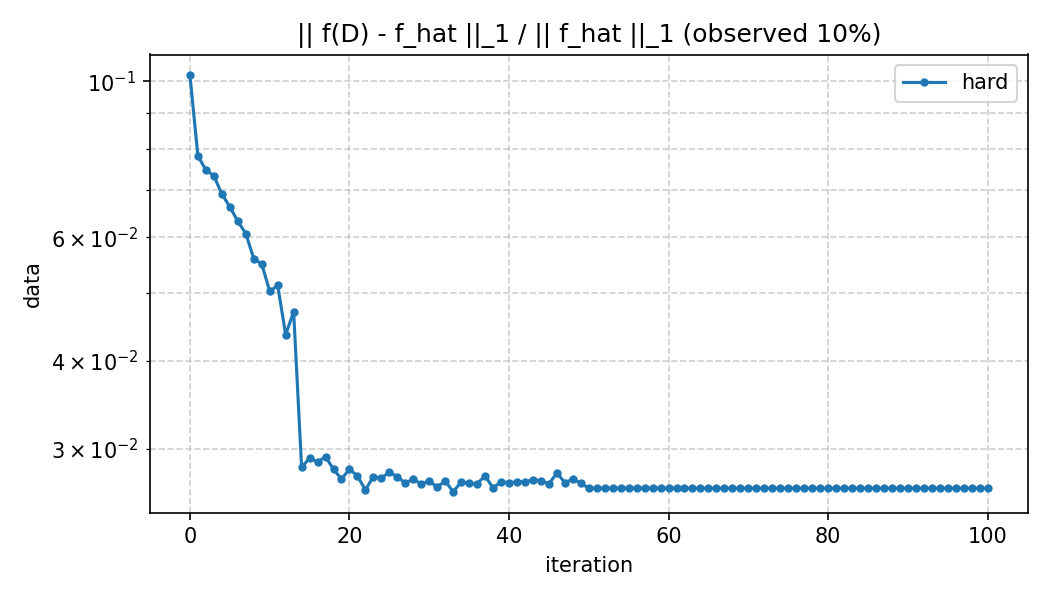
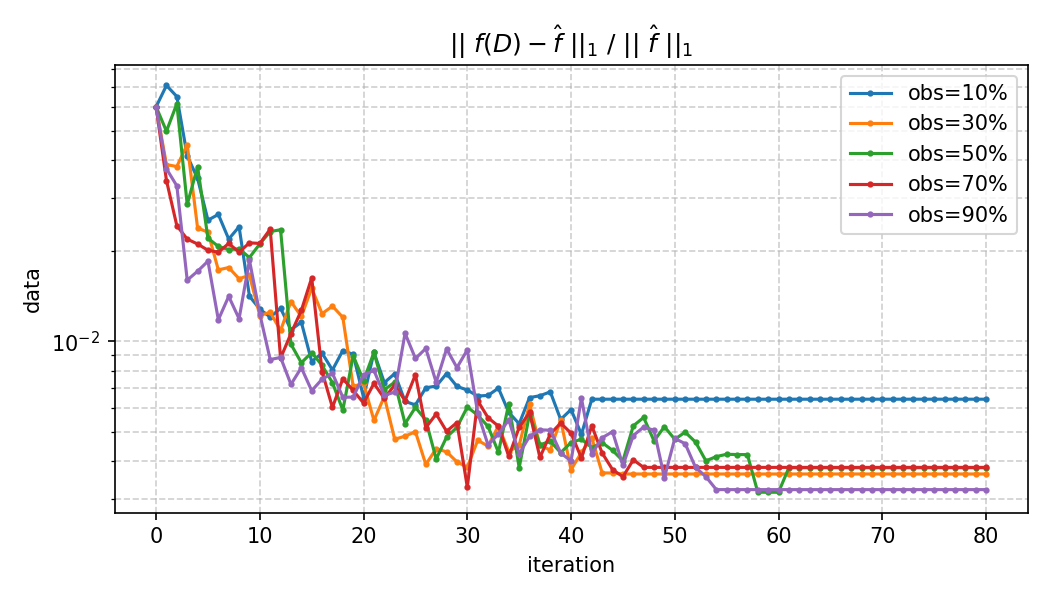
Refactor for L1 regularization and KL separation
Replaces KL-regularized mirror descent with L1-regularized version in main_l1.py and related files. Renames mirror_descent_completion.py to mirror_descent_completion_kl.py and updates imports accordingly. Updates experiment_math.md to reflect the use of L1 regularization and real network data. Refactors mask generation and plotting in main_l1.py for experiments with varying observed fractions. Minor changes to plotting and initialization for reproducibility and clarity.

diff --git a/main_l1.py b/main_l1.py
@@ -8,7 +8,7 @@ from typing import Dict
 import numpy as np
 import pandas as pd
 
-from mirror_descent_completion import project_to_marginals_masked
+from mirror_descent_completion_kl import project_to_marginals_masked
 from mirror_descent_completion_l1 import mirror_descent_completion_l1
 from optimize_results_l1_dto import MirrorDescentL1Result
 from subfunctions import build_dense_graph, make_progress_printer, make_switch_logger, plot_history
@@ -73,15 +73,16 @@ def run_completion_l1(
 
     flow_ref = fw_beckmann_flow(csr, edge_cost, D_true, **fw_hard_kwargs)
 
-    # rng_mask = np.random.default_rng(int(mask_seed))
-    # mask = (rng_mask.random(flow_ref.shape) < float(observed_fraction)).astype(np.float64)
-    # if mask.sum() == 0:
-    #     mask[0] = 1.0
 
-    # можно тут играться с тем куда ставить датчики
-    indexes = np.argsort(flow_ref)
-    mask = np.zeros(flow_ref.shape)
-    mask[indexes[-10:]] = 1
+    rng_mask = np.random.default_rng(42)
+    mask = (rng_mask.random(flow_ref.shape) < float(observed_fraction)).astype(np.float64)
+    if mask.sum() == 0:
+        mask[0] = 1.0
+
+    # # можно тут играться с тем куда ставить датчики
+    # indexes = np.argsort(flow_ref)
+    # mask = np.zeros(flow_ref.shape)
+    # mask[indexes[-10:]] = 1
 
     f_hat = flow_ref.copy()
     if float(flow_noise_level) > 0.0:
@@ -170,7 +171,7 @@ def main():
 
     nx.draw(graph.to_networkx())
     plt.gcf().suptitle("Икша")
-    plt.show()
+    # plt.show()
 
     edge_cost = BRP(
         cap=network["capacity"].to_numpy(),
@@ -179,43 +180,47 @@ def main():
         beta=4,
     )
 
-    observed_fraction = 0.1
+    observed_fractions = np.arange(0.1, 1, 0.2)
     modes = ("hard",)
 
-    results = run_completion_l1(
-        D_true,
-        modes,
-        csr=graph,
-        n_iters=100,
-        edge_cost=edge_cost,
-        observed_fraction=float(observed_fraction),
-        reference_noise_level=0.3,
-        reg_lambda=5e2,
-    )
-
-    # np.savetxt("matrix_l1.csv", results["hard"].D_final, delimiter=",")
+    np.random.seed(42)
+    results_by_label: Dict[str, MirrorDescentL1Result] = {}
+    for observed_fraction in observed_fractions:
+        results = run_completion_l1(
+            D_true,
+            modes,
+            csr=graph,
+            n_iters=80,
+            edge_cost=edge_cost,
+            observed_fraction=float(observed_fraction),
+            reference_noise_level=0.0,
+            reg_lambda=5e2,
+        )
+        for mode, res in results.items():
+            label = f"obs={observed_fraction:.0%}"
+            results_by_label[label] = res
 
     out_dir = Path("plots_l1")
     out_dir.mkdir(parents=True, exist_ok=True)
 
+    # plot_history(
+    #     {name: res.objective_history for name, res in results_by_label.items()},
+    #     out_dir / "objective_curves.png",
+    #     r"$|| \  f(D) - \hat{f}  \ ||_2^2 + \lambda\cdot|| \ D - D_{ref}  \ ||_1$",
+    #     "objective",
+    #     semilogy=True,
+    # )
     plot_history(
-        {name: res.objective_history for name, res in results.items()},
-        out_dir / "objective_curves.png",
-        f"Objective = data + λ·||D - D_true||_1 (observed {observed_fraction:.0%} flows)",
-        "objective",
-        semilogy=True,
-    )
-    plot_history(
-        {name: res.data_history for name, res in results.items()},
+        {name: res.data_history for name, res in results_by_label.items()},
         out_dir / "relative_flow_error.png",
-        f"|| f(D) - f_hat ||_1 / || f_hat ||_1 (observed {observed_fraction:.0%})",
+        r"$|| \  f(D) - \hat{f} \  ||_1  \ /  \ || \  \hat{f} \ ||_1$",
         "data",
         semilogy=True,
     )
     plot_history(
-        {name: res.rel_l1_ref_history for name, res in results.items()},
+        {name: res.rel_l1_ref_history for name, res in results_by_label.items()},
         out_dir / "rel_matrix_error.png",
-        f"||D_k - D_ref||_1 / ||D_ref||_1 (observed {observed_fraction:.0%})",
+        r"$|| \ D_k - D_{ref}\ ||_1 \  / \  || \ D_{ref} \ ||_1$",
         "relative L1 error",
         semilogy=True,
     )

diff --git a/mirror_descent_completion_l1.py b/mirror_descent_completion_l1.py
@@ -4,7 +4,7 @@ from typing import Callable, Dict, Literal, Optional, Tuple
 
 import numpy as np
 
-from mirror_descent_completion import project_to_marginals_masked
+from mirror_descent_completion_kl import project_to_marginals_masked
 from optimize_results_l1_dto import MirrorDescentL1Result
 from src.od_matrix_completion.core.models.manyalli_written_beckmann import (
     BRP,
@@ -74,6 +74,7 @@ def mirror_descent_completion_l1(
     В качестве зеркального шага используется энтропийная геометрия (multiplicative update),
     затем проекция на фиксированные маргиналии (из D_reference) с сохранением нулевой диагонали.
     """
+    np.random.seed(42)
     if mode not in {"hard", "soft_grad", "auto_soft"}:
         raise ValueError(f"Unknown mode={mode}")
 
@@ -115,10 +116,11 @@ def mirror_descent_completion_l1(
 
     if D_init is None:
         u, Sigma, v = np.linalg.svd(D_reference)
-        Sigma[2:-1] = Sigma[2:-1] * 2
-        Sigma[-1]=0
-        # print(Sigma)
-        D_est = project_to_marginals_masked(u @ np.diag(Sigma) @ v, L_ref, W_ref, allowed)
+        # Sigma[1:15]=0
+        # D_est = project_to_marginals_masked(u @ np.diag(Sigma) @ v, L_ref, W_ref, allowed)
+        D_est = D_reference * (1 + 70*np.random.random(D_reference.shape))
+        D_est = project_to_marginals_masked(D_est, L_ref, W_ref, allowed)
+
         print("D_est - D_reference = ", np.linalg.norm(D_est - D_reference, ord=1) / np.linalg.norm(D_reference, ord=1))
     else:
         D_est = np.asarray(D_init, dtype=np.float64)

diff --git a/subfunctions.py b/subfunctions.py
@@ -5,7 +5,7 @@ from typing import Dict
 
 import numpy as np
 
-from mirror_descent_completion import mirror_descent_completion
+from mirror_descent_completion_kl import mirror_descent_completion
 from optimize_results_dto import MirrorDescentResult
 from src.od_matrix_completion.core.models.manyalli_written_beckmann import (
     BRP,
@@ -150,9 +150,9 @@ def plot_history(series: Dict[str, list[float]], path: Path, title: str, ylabel:
         y = np.asarray(values, dtype=np.float64)
         x = np.arange(y.size)
         if semilogy:
-            plt.semilogy(x, y, marker="o", ms=3, label=label)
+            plt.semilogy(x, y, marker="o", ms=2, label=label)
         else:
-            plt.plot(x, y, marker="o", ms=3, label=label)
+            plt.plot(x, y, marker="o", ms=2, label=label)
 
     plt.xlabel("iteration")
     plt.ylabel(ylabel)

diff --git a/global_opt_completion.py b/global_opt_completion.py
@@ -7,7 +7,7 @@ from typing import Optional
 import numpy as np
 from scipy.optimize import differential_evolution
 
-from mirror_descent_completion import kl_value_and_grad, project_to_marginals_masked
+from mirror_descent_completion_kl import kl_value_and_grad, project_to_marginals_masked
 from subfunctions import build_dense_graph, load_od_matrix, plot_history
 from src.od_matrix_completion.core.models.manyalli_written_beckmann import fw_beckmann_flow
 

diff --git a/main.py b/main.py
@@ -6,7 +6,7 @@ import networkx as nx
 import matplotlib.pyplot as plt
 
 from subfunctions import *
-from mirror_descent_completion import mirror_descent_completion, project_to_marginals_masked
+from mirror_descent_completion_kl import mirror_descent_completion, project_to_marginals_masked
 from optimize_results_dto import MirrorDescentResult
 from src.od_matrix_completion.core.models.manyalli_written_beckmann import fw_beckmann_flow
 

diff --git a/experiment_math.md b/experiment_math.md
@@ -1,6 +1,6 @@
 # Математическое описание эксперимента восстановления OD-матрицы по потокам
 
-Ниже описан эксперимент, в котором **генерируются синтетические наблюдения потоков** из заданной OD-матрицы через **модель Бекмана (равновесное назначение)**, а затем по частично наблюдаемым потокам восстанавливается OD-матрица методом **зеркального спуска** (с энтропийной геометрией) с **KL-регуляризацией** и фиксированными маргиналиями.
+Ниже описан эксперимент, в котором по заданной «истинной» OD-матрице строятся равновесные потоки в **модели Бекмана (UE)**, затем часть компонент потока «скрывается» маской наблюдений, и по частично наблюдаемым потокам восстанавливается OD-матрица методом **зеркального спуска** (с энтропийной геометрией) с **L1-регуляризацией** и фиксированными маргиналиями.
 
 ---
 
@@ -27,10 +27,7 @@ $$
 
 ## 2) Граф и функции стоимости на рёбрах (BPR)
 
-Строится ориентированный связный граф $G=(V,E)$ на $|V|=n$ вершинах **без петель**, с числом рёбер
-$$
-|E|=m=4n.
-$$
+Используется реальная сеть SiouxFalls: ориентированный граф $G=(V,E)$ на $|V|=n=24$ вершинах (зоны совпадают с вершинами), с числом рёбер $|E|=m$ из данных сети (в используемом наборе $m=76$).
 
 Каждому ребру $e\in E$ сопоставляется **функция времени проезда** (BPR):
 $$
@@ -42,11 +39,7 @@ $$
 - $t^0_e>0$ — свободное время,
 - $\alpha_e=0.15$, $\beta_e=4$ (в эксперименте одинаковы для всех рёбер).
 
-В синтетическом графе параметры $c_e$ и $t^0_e$ фиксируются детерминированно по индексам концов ребра $e=(u\to v)$:
-$$
-c_e = 1800 + 200\cdot\big((u+v)\bmod 4\big),\qquad
-t^0_e = 1 + 0.1\cdot\big(|v-u|\bmod 5\big).
-$$
+В текущем эксперименте $c_e$ и $t^0_e$ берутся из данных сети: $c_e$ — capacity, $t^0_e$ — free flow time.
 
 Производная (для полноты):
 $$
@@ -126,12 +119,11 @@ $$
 
 ---
 
-## 5) Выбор референса, маргиналий и prior
+## 5) Выбор референса и маргиналий
 
-Помимо «истины» $D_\mathrm{true}$ вводится референсная матрица $D_\mathrm{ref}$, которая играет две роли:
+Помимо «истины» $D_\mathrm{true}$ вводится референсная матрица $D_\mathrm{ref}$, которая фиксирует допустимое множество через маргиналии, и используется в инициализации.
 
-1) по ней фиксируются маргиналии $(L,W)$ в допустимом множестве $\mathcal{D}(L,W)$,  
-2) она же выступает prior-матрицей $D_\mathrm{prior}$ в KL-регуляризаторе.
+1) по ней фиксируются маргиналии $(L,W)$ в допустимом множестве $\mathcal{D}(L,W)$.
 
 Типичная схема:
 
@@ -144,30 +136,24 @@ $$
 
 Затем в задаче восстановления фиксируются
 $$
-L = D_\mathrm{ref}\mathbf 1,\qquad W = D_\mathrm{ref}^\top\mathbf 1,\qquad D_\mathrm{prior}=D_\mathrm{ref}.
+L = D_\mathrm{ref}\mathbf 1,\qquad W = D_\mathrm{ref}^\top\mathbf 1.
 $$
 
 ---
 
 ## 6) Внешняя задача восстановления OD-матрицы (целевая функция)
 
-Ищется $D\in\mathcal{D}(L,W)$, минимизирующая расхождение модельных и наблюдаемых потоков на наблюдаемых рёбрах, плюс KL-регуляризация к априорной матрице $D_\mathrm{prior}$:
+Ищется $D\in\mathcal{D}(L,W)$, минимизирующая расхождение модельных и наблюдаемых потоков на наблюдаемых рёбрах, плюс L1-регуляризация (в текущем бенчмарке — к «истине» $D_\mathrm{true}$):
 $$
 \min_{D\in\mathcal{D}(L,W)}\;
 \underbrace{\frac12\left\|M\odot\big(f(D)-\hat f\big)\right\|_2^2}_{\text{data term}}
 \;+\;
-\lambda\underbrace{\mathrm{KL}\!\left(D\,\middle\|\,D_\mathrm{prior}\right)}_{\text{regularizer}}.
+\lambda\underbrace{\left\|D-D_\mathrm{true}\right\|_{1,\mathrm{off}}}_{\text{regularizer}}.
 $$
 
-Здесь $\lambda\ge 0$ — вес регуляризации, а обобщённая KL-дивергенция задаётся как
+Здесь $\lambda\ge 0$ — вес регуляризации, а норма берётся по внедиагональным элементам (диагональ фиксирована нулём):
 $$
-\mathrm{KL}(D\|P)=\sum_{i\ne j}\left(D_{ij}\log\frac{D_{ij}}{P_{ij}}-D_{ij}+P_{ij}\right),
-$$
-причём $P_{ij}>0$ на допустимых (вне диагонали) ячейках.
-
-Градиент KL по $D$ (покомпонентно, для $i\ne j$):
-$$
-\frac{\partial}{\partial D_{ij}}\mathrm{KL}(D\|P)=\log\frac{D_{ij}}{P_{ij}}.
+\left\|D-D_\mathrm{true}\right\|_{1,\mathrm{off}}=\sum_{i\ne j}\left|D_{ij}-\left(D_\mathrm{true}\right)_{ij}\right|.
 $$
 
 ---
@@ -188,7 +174,7 @@ $$
 
 Поскольку точный $J(D)$ для «жёсткого» AON не является гладким (зависит от дискретного выбора кратчайших путей), в эксперименте используются **приближённые** варианты $J(D)^\top r$:
 
-### 7.1) `hard`: «прямолинейный» Якобиан FW/AON
+### 7.1) Режим hard: «прямолинейный» Якобиан FW/AON
 
 При фиксированных весах $t^{(k)}$ AON-нагрузка линейна по $D$:
 $$
@@ -214,7 +200,7 @@ J(D)\approx G^{(K)},\qquad
 \nabla_D\frac12\|r\|^2\approx \mathrm{unvec}\!\big((G^{(K)})^\top r\big).
 $$
 
-### 7.2) `soft_grad`: сглаженный градиент через soft AON (logit по near-shortest)
+### 7.2) Режим soft_grad: сглаженный градиент через soft AON (logit по near-shortest)
 
 Чтобы стабилизировать $J^\top r$, вводится сглаженная версия AON:
 
@@ -235,14 +221,24 @@ $$
 
 Это задаёт распределение по путям и, следовательно, **ожидаемые** потоки $y_\mathrm{soft}$, которые гладко зависят от $D$ (при фиксированном $t$). Тогда вместо $(G^{(K)})^\top r$ используется вектор-Якобиан произведение $J_\mathrm{soft}^\top r$, вычисляемое динамическим программированием по DAG-порядку вершин (в порядке роста расстояний).
 
-### 7.3) `auto_soft`
+### 7.3) Режим auto_soft
 
-Комбинированный режим: сначала используется `hard`, и при стагнации по значению цели происходит переключение на `soft_grad`.
+Комбинированный режим: сначала используется hard, и при стагнации по значению цели происходит переключение на soft_grad.
 
 Итоговый градиент внешней задачи:
 $$
-\nabla_D \mathcal{L}(D)\;\approx\; \mathrm{unvec}(J^\top r)\;+\;\lambda\,\log\frac{D}{D_\mathrm{prior}}
-\quad(\text{покомпонентно вне диагонали}).
+\nabla_D \mathcal{L}(D)\;\approx\; \mathrm{unvec}(J^\top r)\;+\;\lambda\,S(D)
+\quad(\text{вне диагонали}),
+$$
+где $S(D)$ — субградиент L1-терма:
+$$
+S(D)_{ij}\in \partial |D_{ij}-(D_\mathrm{true})_{ij}|=
+\begin{cases}
+1,& D_{ij}>(D_\mathrm{true})_{ij},\\
+[-1,1],& D_{ij}=(D_\mathrm{true})_{ij},\\
+-1,& D_{ij}<(D_\mathrm{true})_{ij},
+\end{cases}
+\qquad i\ne j.
 $$
 
 ---
@@ -251,21 +247,23 @@ $$
 
 Оптимизация ведётся на множестве $\mathcal{D}(L,W)$, используя энтропийную геометрию (KL-проксимальность).
 
-### 8.0) Начальное приближение (truncated SVD + проекция)
+### 8.0) Начальное приближение (SVD-модификация + проекция)
 
-Стартовая точка $D^{(0)}$ строится из референса $D_\mathrm{ref}$ как низкоранговая аппроксимация, чтобы сгладить «шумные» компоненты:
+Стартовая точка $D^{(0)}$ строится из референса $D_\mathrm{ref}$ через SVD и эвристическую модификацию сингулярных значений:
 $$
 D_\mathrm{ref}=U\,\mathrm{diag}(\sigma)\,V^\top,\qquad
-\widetilde\sigma_i=
-\begin{cases}
-\sigma_i,& i\le r,\\
-0,& i>r,
-\end{cases}
-\qquad
 \widetilde D = U\,\mathrm{diag}(\widetilde\sigma)\,V^\top,
 $$
-где $r$ — выбранный ранг (эквивалентно: «обнуляется хвост» сингулярных значений).
-В используемой конфигурации обнуляется фиксированное число $q$ наименьших сингулярных значений (например, $q=11$), то есть $r=n-q$.
+где $\widetilde\sigma$ получается из $\sigma$ следующим образом (текущая конфигурация для SiouxFalls, $n=24$):
+$$
+\widetilde\sigma_0 = 0,\qquad
+\widetilde\sigma_i=
+\begin{cases}
+2\sigma_i,& i\in\{17,18,\dots,n-2\},\\
+\sigma_i,& \text{иначе},
+\end{cases}
+$$
+то есть зануляется главный сингулярный компонент и усиливается часть «хвоста» спектра.
 
 Далее $\widetilde D$ приводится в допустимое множество:
 $$
@@ -315,14 +313,14 @@ $$
 Ниже — набор фиксированных чисел, которые определяют эксперимент (по смыслу):
 
 - **Наблюдения потоков:** доля наблюдаемых рёбер $p$; сид генерации маски; уровень шума $\sigma$ и сид шума.
-- **Референс/prior:** уровень шума $\sigma_\mathrm{ref}$ (если используется); флаг «сохранить истинные маргиналии» (IPF-проекция $D_\mathrm{ref}$ на $(L_\mathrm{true},W_\mathrm{true})$).
-- **Регуляризация:** $\lambda=10^{-3}$; для численной устойчивости используется порог $\varepsilon=10^{-12}$ в выражениях вида $\log D$.
+- **Референс и маргиналии:** уровень шума $\sigma_\mathrm{ref}$ (если используется); флаг «сохранить истинные маргиналии» (IPF-проекция $D_\mathrm{ref}$ на $(L_\mathrm{true},W_\mathrm{true})$).
+- **Регуляризация:** вес $\lambda$ у L1-терма $\|D-D_\mathrm{true}\|_{1,\mathrm{off}}$ (в одном из запусков используется $\lambda=5\cdot 10^2$).
 - **FW (Beckmann, hard):** максимум итераций $K=200$; критерий остановки $\mathrm{rgap}\le 10^{-3}$; шаг $\gamma_k=2/(k+2)$.
 - **FW (soft_grad):** $K=200$, $\theta=10$, $\delta_\mathrm{rel}=0.02$, $\delta_\mathrm{abs}=10^{-3}$.
-- **Зеркальный спуск:** число внешних итераций $30$; начальный шаг бэктрекинга $\eta_0=10^{-2}$; $\beta=0.5$; минимум $\eta_\min=10^{-12}$; максимум попыток на итерацию $50$; IPF-проекция $T=30$ внутренних итераций.
-- **Инициализация:** truncated SVD ранга $r$ (или, эквивалентно, обнуление части наименьших сингулярных значений) перед IPF-проекцией на маргиналии.
+- **Зеркальный спуск:** число внешних итераций (используется до $250$); начальный шаг бэктрекинга $\eta_0=10^{-2}$; $\beta=0.5$; минимум $\eta_\min=10^{-12}$; максимум попыток на итерацию $50$; IPF-проекция $T=30$ внутренних итераций.
+- **Инициализация:** SVD-модификация спектра $D_\mathrm{ref}$ (зануление $\sigma_0$ и масштабирование части хвоста) перед IPF-проекцией на маргиналии.
 
-В одном из базовых запусков (как пример набора значений): $p=1$, $\sigma=0$, $\lambda=10^{-3}$, $\eta_0=10^{-2}$, $\theta=10$, сид маски $123$, сид шума $123$.
+Пример набора значений: $p\in\{0.1,0.3,0.5,0.7,0.9\}$, $\sigma=0$, $\lambda=5\cdot 10^2$, $\eta_0=10^{-2}$, $\theta=10$, сид маски $123$, сид шума $123$.
 
 ### Сравнение с вундервафлей
 
